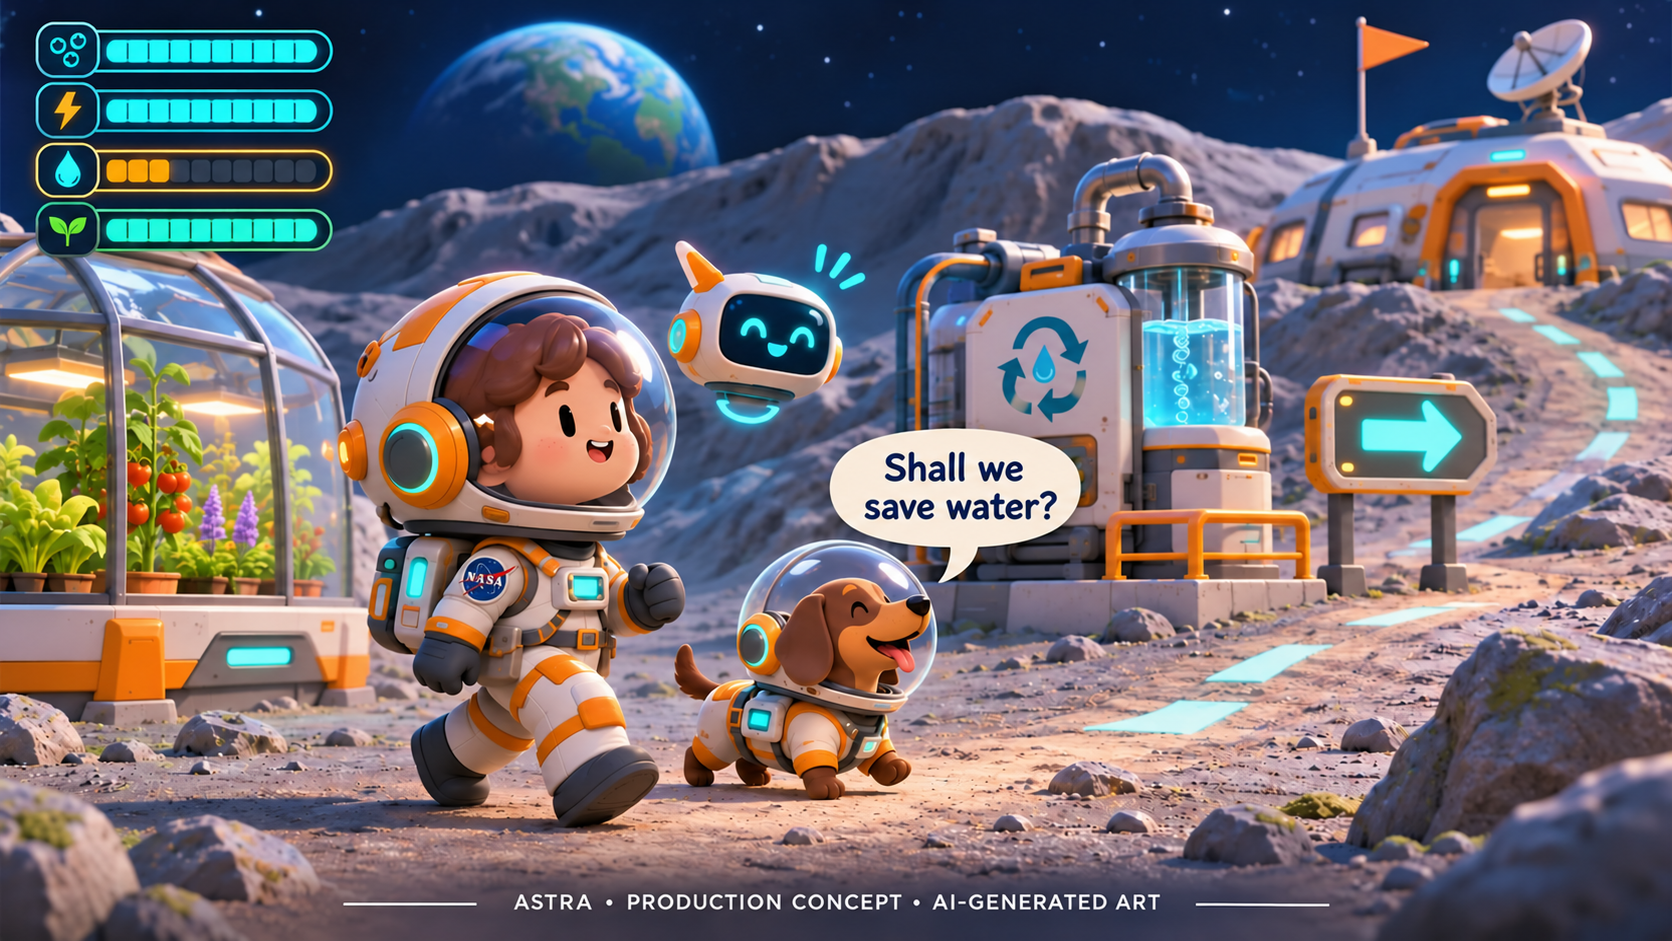
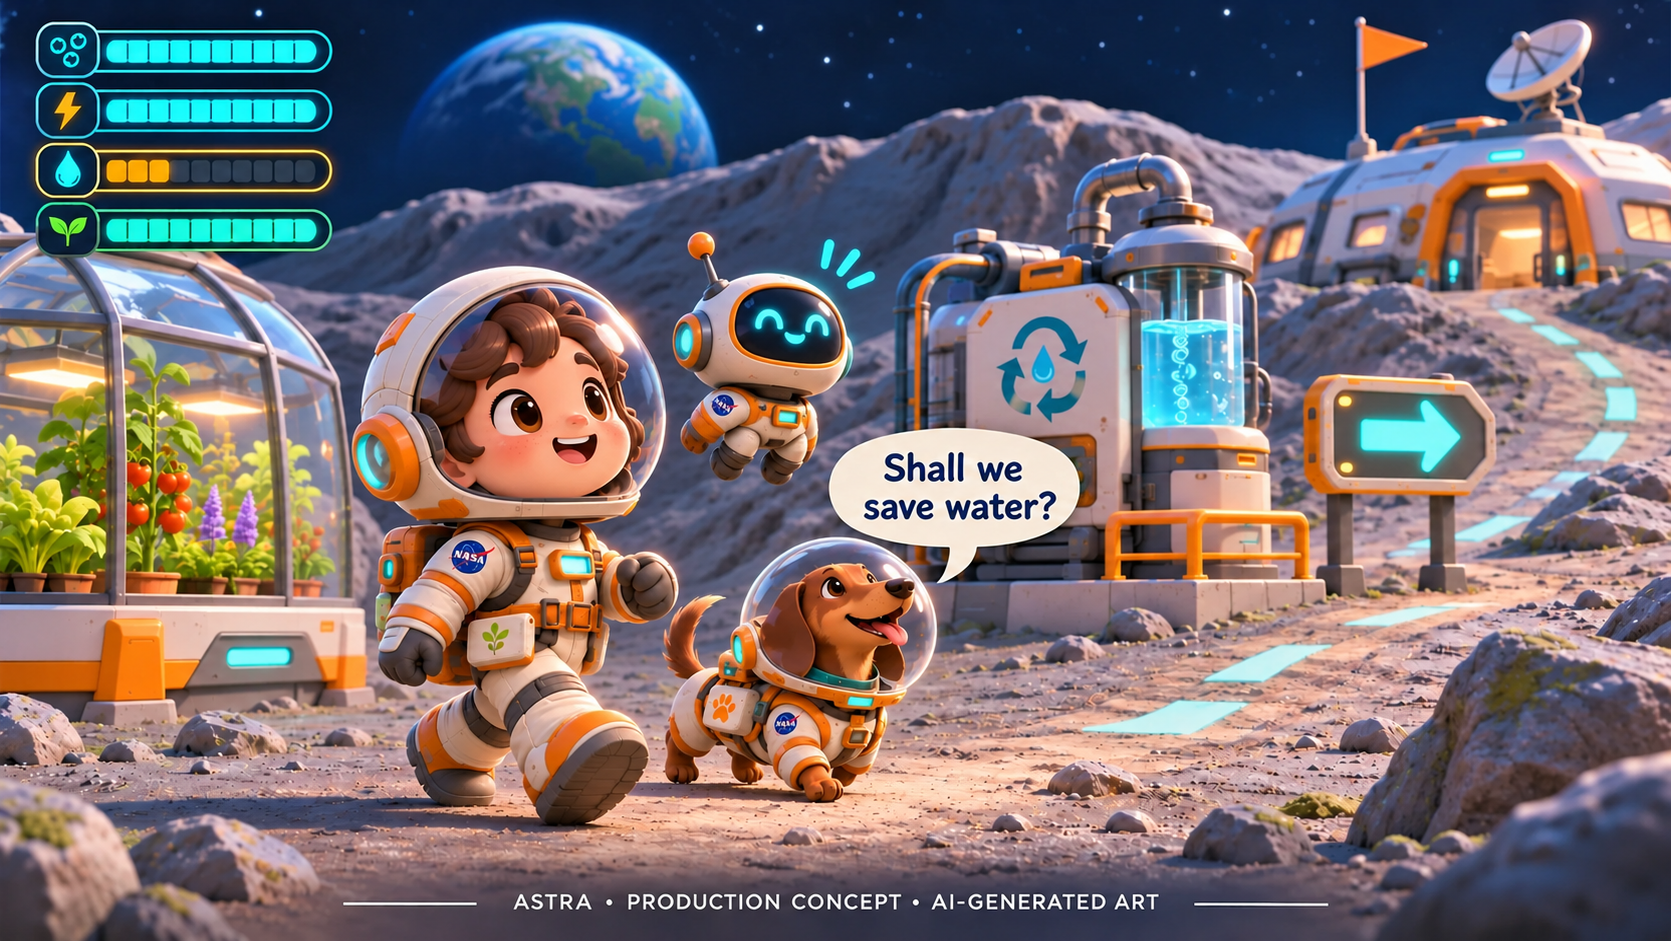
Configure Vercel static output and restore canonical cast in water concept art

diff --git a/docs/VERCEL_DEPLOYMENT.md b/docs/VERCEL_DEPLOYMENT.md
@@ -1,0 +1,22 @@
+# Deploy the institutional site to Vercel
+
+This is a buildless static HTML/CSS/JavaScript project. `dist/index.html` is the entrypoint, and all runtime assets are already versioned. It does not need npm install or a frontend build command.
+
+`vercel.json` explicitly selects no framework, disables installation and building, and publishes `dist/`. Without an output directory override, Vercel's Other preset may serve the repository root, which has no index.html. A successful deployment status alone therefore does not verify that the landing page is served.
+
+Import `andrecodexvictor/astra-institutional` and use:
+
+| Setting | Value |
+| --- | --- |
+| Root Directory | `./` (repository root) |
+| Framework Preset | Other |
+| Build Command | Empty; no build |
+| Install Command | Empty; no dependencies |
+| Output Directory | `dist` (also declared in vercel.json) |
+| Environment variables | None |
+
+If the existing project used `dist` as its Root Directory, set Root Directory back to the repository root so Vercel reads the root vercel.json; otherwise it may interpret the output path relative to the wrong directory. Deploy the latest main commit. The GitHub integration can trigger this automatically when connected; review the deployment URL rather than relying solely on a success badge.
+
+The public Site hosted by Sites is independent and uses `.openai/hosting.json`. This configuration does not change that identity or the owner-selected Vercel game-demo URL.
+
+References: https://vercel.com/docs/builds/configure-a-build and https://vercel.com/docs/project-configuration/vercel-json .
